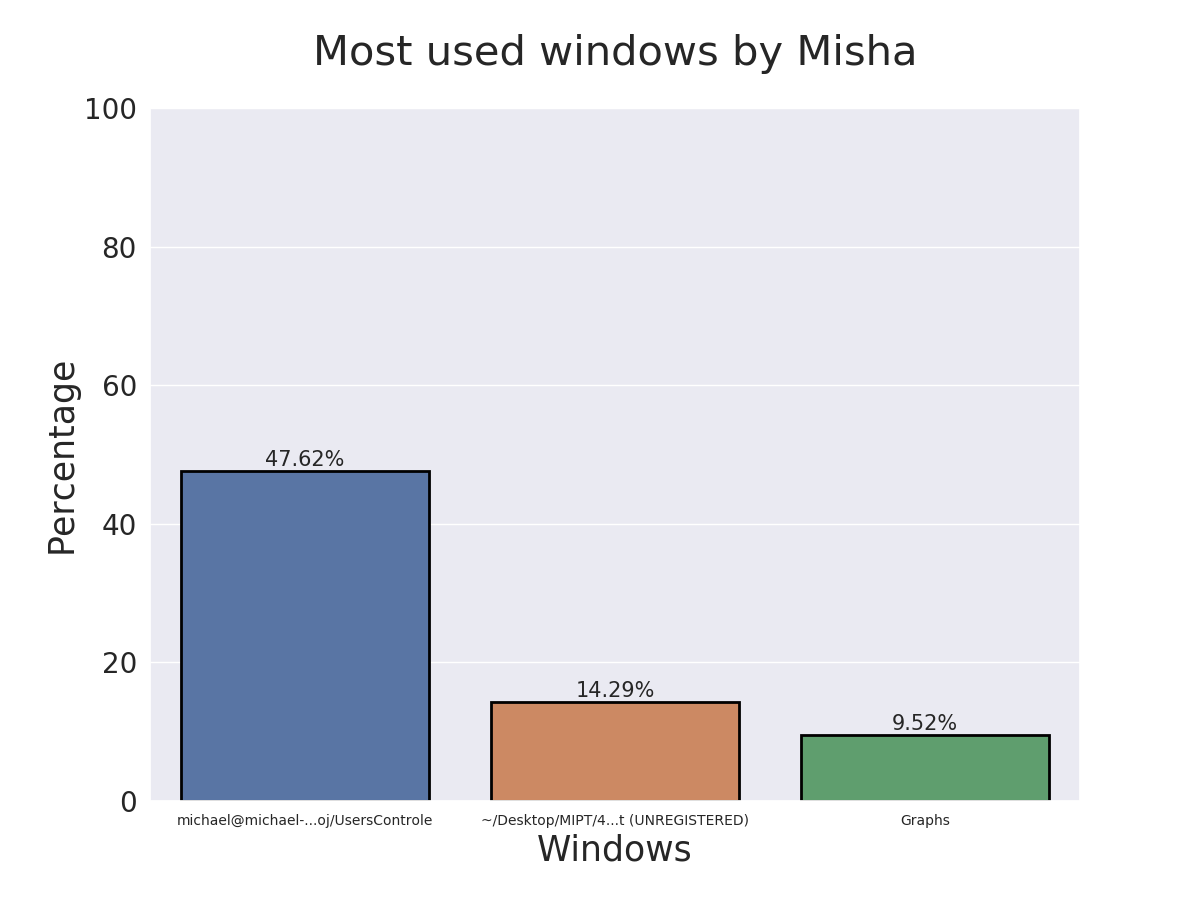
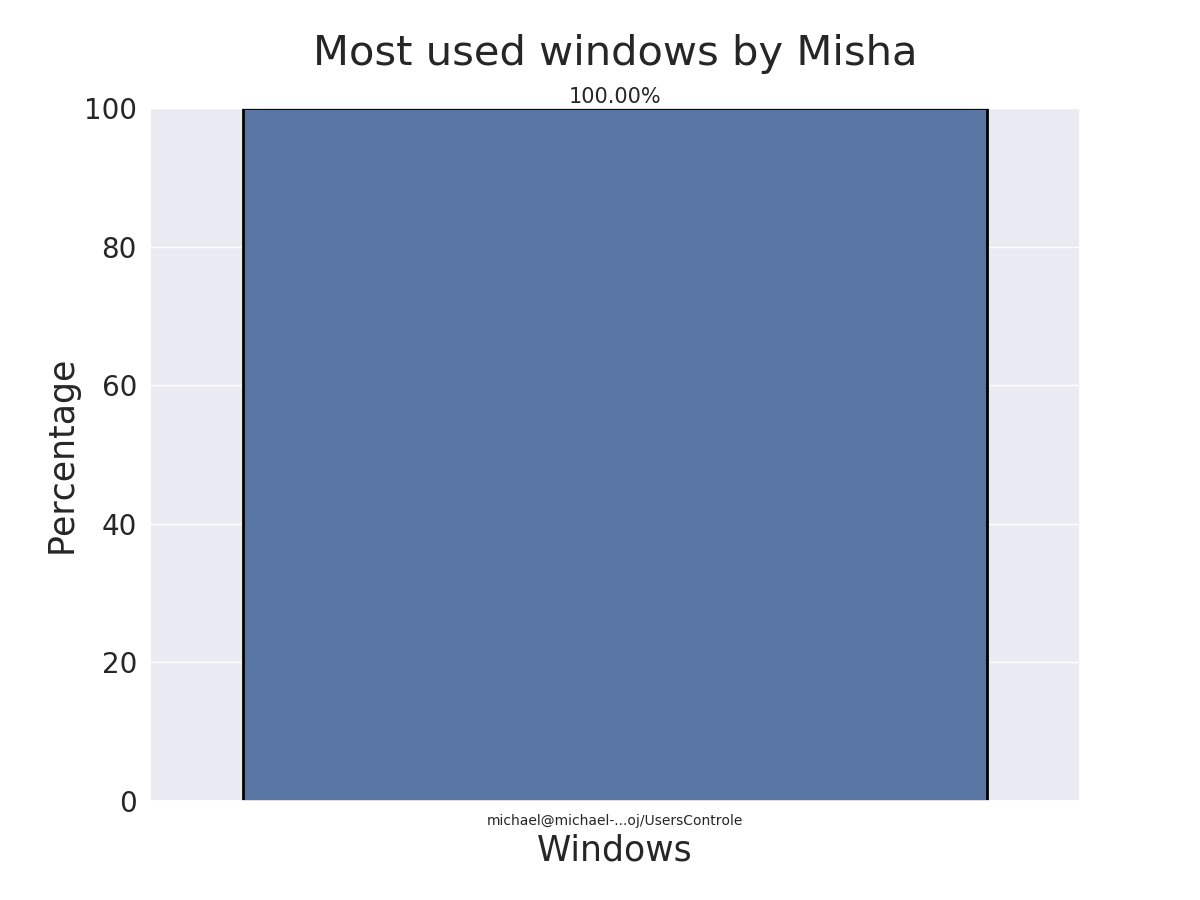
Pull

diff --git a/Plot.py b/Plot.py
@@ -16,12 +16,17 @@ def main():
     # Lists of active windows and their percentage
     win_list, percent_list = DB_access.MostUsableWindows(DB_access.Session(), name)
 
-    for win in win_list:
-        if percent_list[win_list.index(win)] == 0:
-            del percent_list[win_list.index(win)]
-            del win_list[win_list.index(win)]
-        else:
-            win_list[win_list.index(win)] = (win[:16] + '...' + win[-16:]) if len(win) > 35 else win
+    deleted_i = []
+    for i in range(3):
+        if percent_list[i] == 0.00:
+            deleted_i.insert(0, i)
+
+    for i in deleted_i:
+        del win_list[i]
+        del percent_list[i]
+
+    for i in range(len(win_list)):
+        win_list[i] = (win_list[i][:16] + '...' + win_list[i][-16:]) if len(win_list[i]) > 35 else win_list[i]
 
     # Preparing for dataframe
     data = {"Windows":    win_list,
